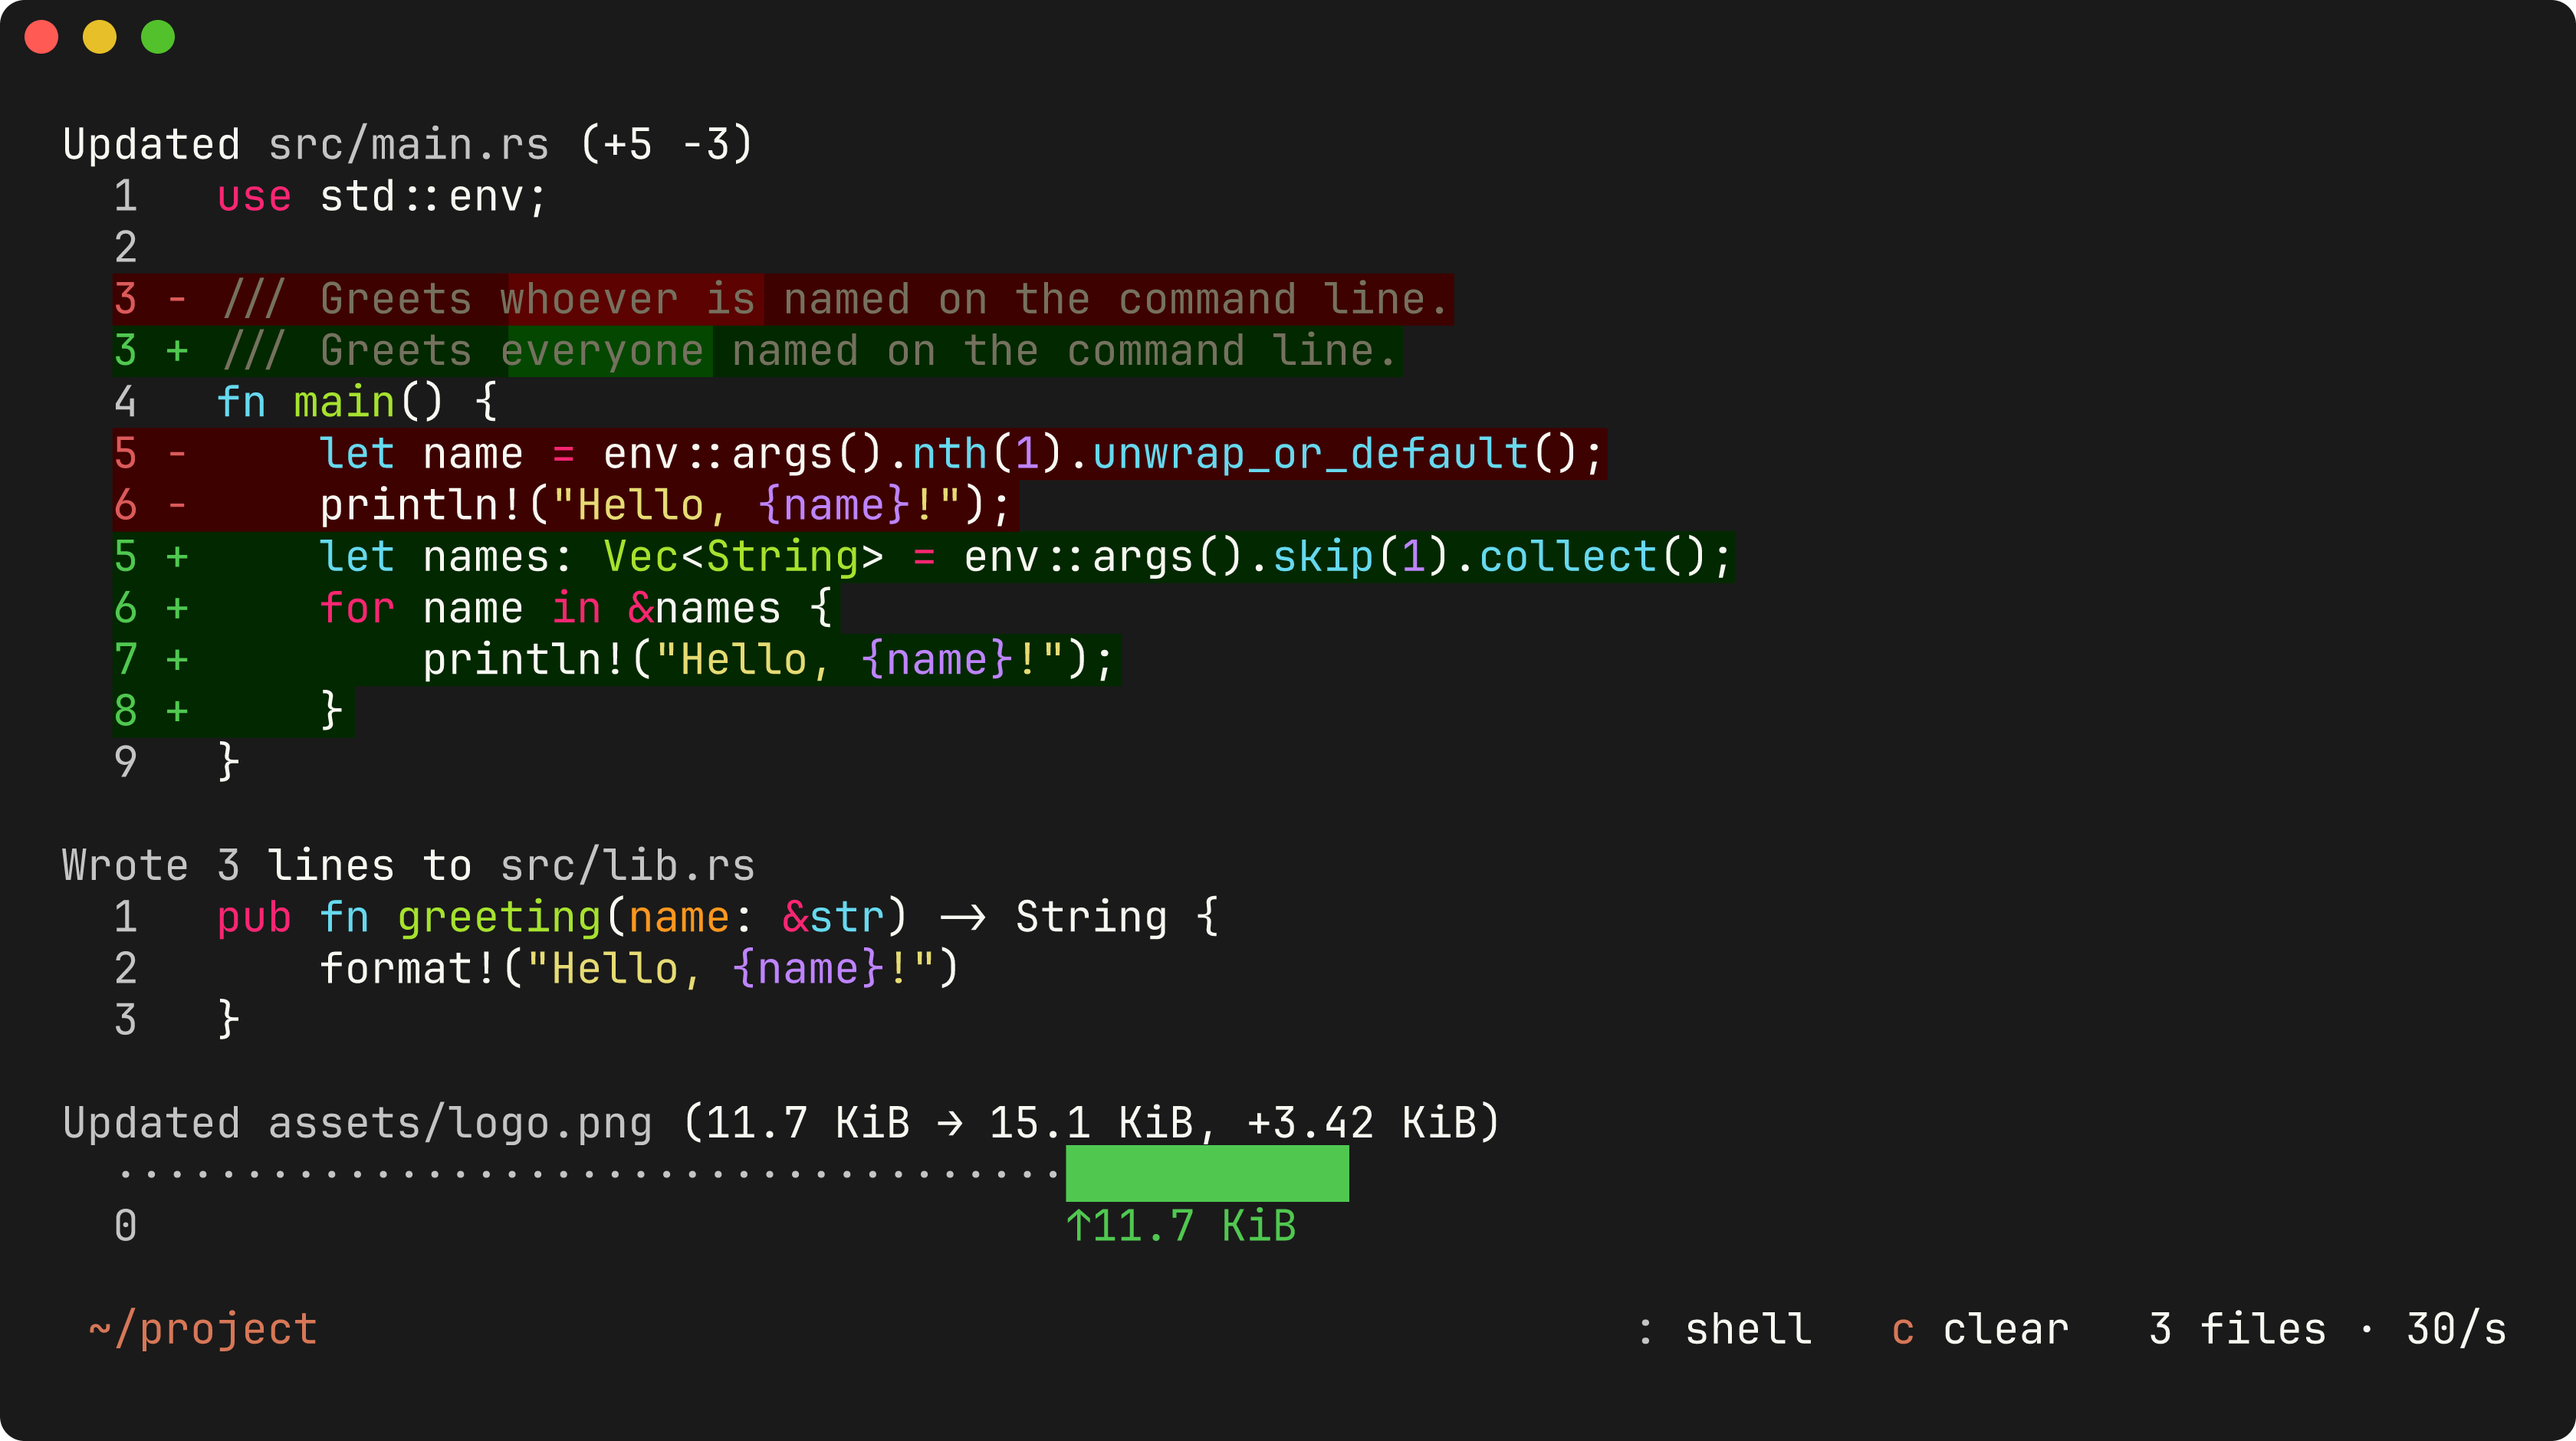
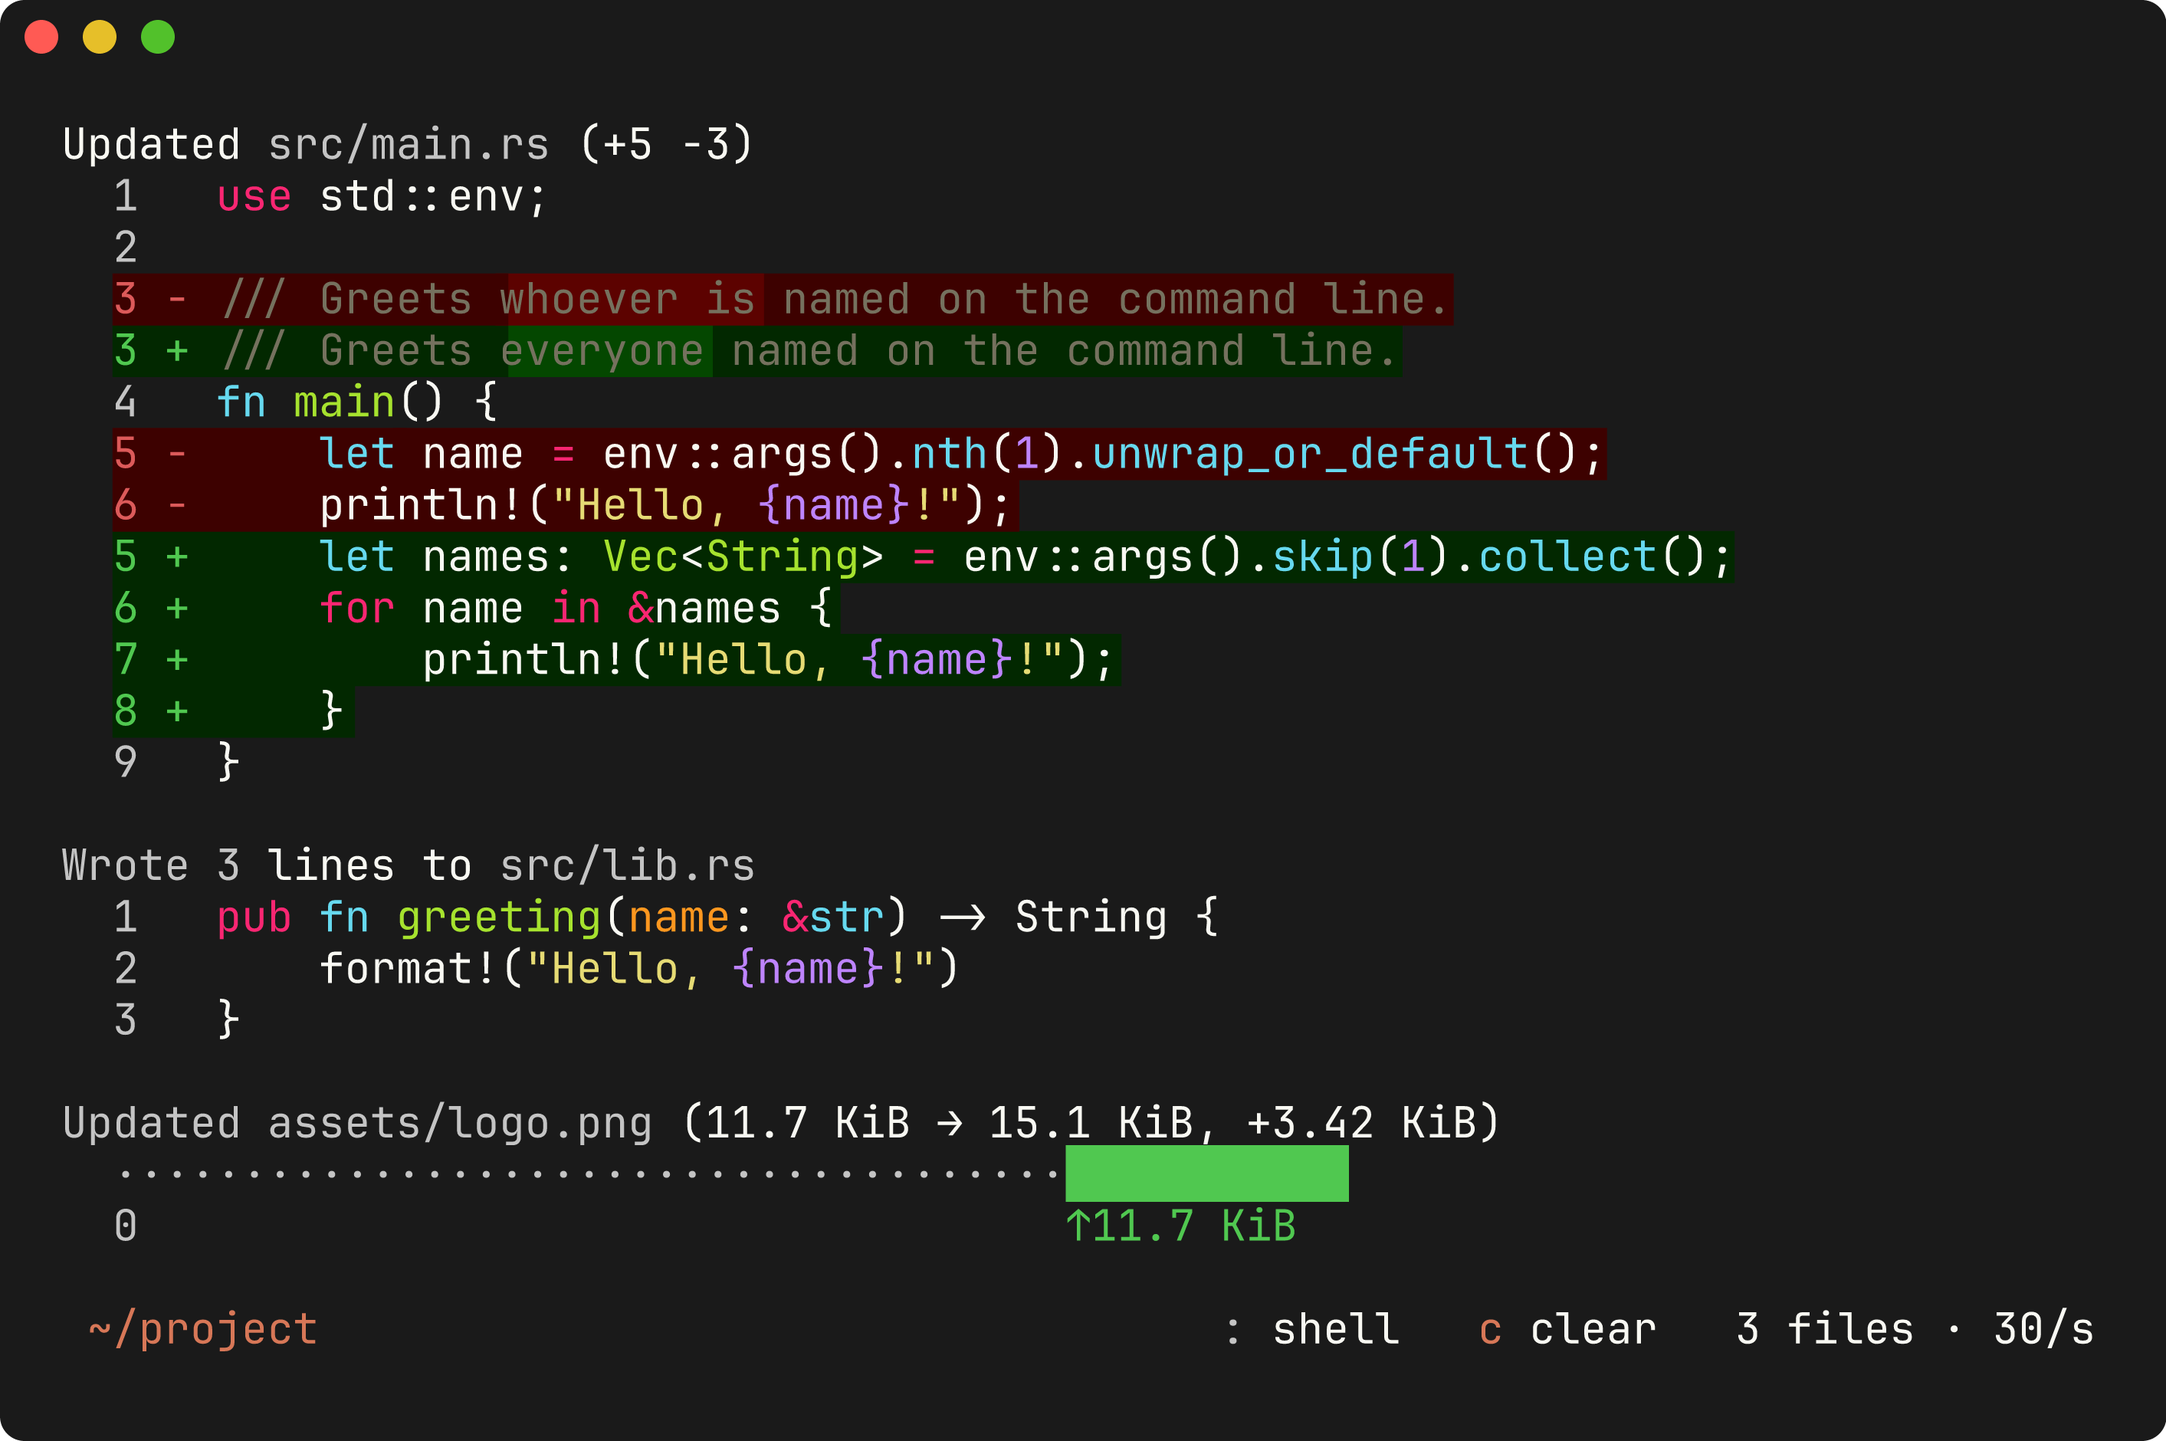
docs: sharper README pictures, and the binary bar as a picture (#13)

diff --git a/README.md b/README.md
@@ -82,14 +82,10 @@ What gets watched:
   get a bar that stands for the whole file, from its start on the left to
   its end on the right. It lights up where bytes changed (yellow), where
   the file grew (green) or where it was cut off (red), with the offset of
-  each change below it. Unchanged parts show a texture: `·` for empty
-  space, up to `▓` for compressed or random data.
+  each change below it. Unchanged parts show a texture: dots for empty
+  space, denser shading for compressed or random data.
 
-  ```
-  Updated app.db (5.23 MiB → 5.81 MiB, +600 KiB)
-    ▓························▓▓▓▓▓▓███▓▓▓▓▓▓▓▓░░████
-    0                              ↑3.76 MiB    ↑5.23 MiB
-  ```
+  ![A binary file's bar: empty space as dots, data as shading, an edit in yellow and growth in green](docs/screenshots/binary.png)
 
   The bar works for files of any size: difftop keeps only 48 hashes per
   file, never the bytes, and hashes a 1 GiB file in about 0.2 s. Binary
